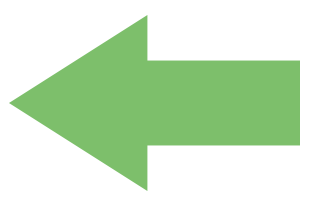
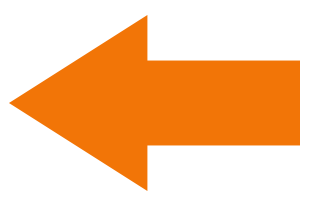
Fix shuffle people, change arrow color, fix my_report.erb width

diff --git a/css/chat_select.css b/css/chat_select.css
@@ -18,7 +18,7 @@
 	padding-left: 5px;
 	height:90px;
 	border-top-style: solid;
-	border-top-width: 2px;
+	border-top-width: 1px;
 	border-top-color: #ebebeb;
 }
 
@@ -30,7 +30,7 @@
 }
 
 .not_anon .profile_container{
-	background: #7DBf6b;
+	background: #f27507;
 	/*background: -webkit-linear-gradient(left top,#b78c8c, #a3659c , #fea758, #e4cfbb); */
 	/* For Safari 5.1 to 6.0 */
     /*background: -o-linear-gradient(bottom right,#b78c8c, #a3659c , #fea758, #e4cfbb);*/
@@ -42,7 +42,7 @@
 }
 
 .anon .profile_container{
-	background: #acacac;
+	background: black;
 	/*background: -webkit-linear-gradient(left top,#ffffff, #4d4d4d); */
 	/* For Safari 5.1 to 6.0 */
     /*background: -o-linear-gradient(bottom right,#ffffff, #4d4d4d);*/
@@ -66,8 +66,8 @@
 }
 
 .anon .profile_pic{
-	background-color: black;
-	background-image: url('/img/grayanon.png');
+	background-color: white;
+	background-image: url('/img/black_anon.png');
 	margin:4px;
 	margin-bottom: 30px;
 	height: 48px;
@@ -94,7 +94,7 @@
 }
 
 .anon{
-	background-color: #000000;
+	background-color: #777777;
 }
 .not_anon{
 	background-color: #FFFFFF;
@@ -109,7 +109,7 @@
 }
 
 .not_anon .content_name{
-	color:#fea758;
+	color:#f27507;
 }
 
 .not_anon .content_msg{

diff --git a/css/chat_room.css b/css/chat_room.css
@@ -1,5 +1,5 @@
 .not_anon{
-	background: #7DBf6b;
+	background: #f27507;
 	/*background: -webkit-linear-gradient(left top,#b78c8c, #a3659c , #fea758, #e4cfbb); */
 	/* For Safari 5.1 to 6.0 */
     /*background: -o-linear-gradient(bottom right,#b78c8c, #a3659c , #fea758, #e4cfbb);*/
@@ -209,7 +209,7 @@
 .history_question{
 	padding: 10px;
 	font-size: 20pt;
-	color:#f27507;
+	color:#7dbf6b;
 }
 
 .history_option{

diff --git a/main.rb b/main.rb
@@ -547,13 +547,13 @@ post '/chat_select' do
         hash["anon"] = "false"
       else
         options = @@librarian.get_options_by_uuid hash["bundle_uuid"]
-        hash["display_name"] = "匿名(他比了%s和%s)" % options
+        hash["display_name"] = "匿名 - %s vs %s" % options
         hash["anon"] = "true"
       end
     else
       if tester == hash["author"]
         options = @@librarian.get_options_by_uuid hash["bundle_uuid"]
-        hash["display_name"] = "匿名(你比了%s和%s)" % options
+        hash["display_name"] = "匿名 - %s vs %s" % options
         hash["anon"] = "true"
       else
         hash["display_name"] = hash["author"]
